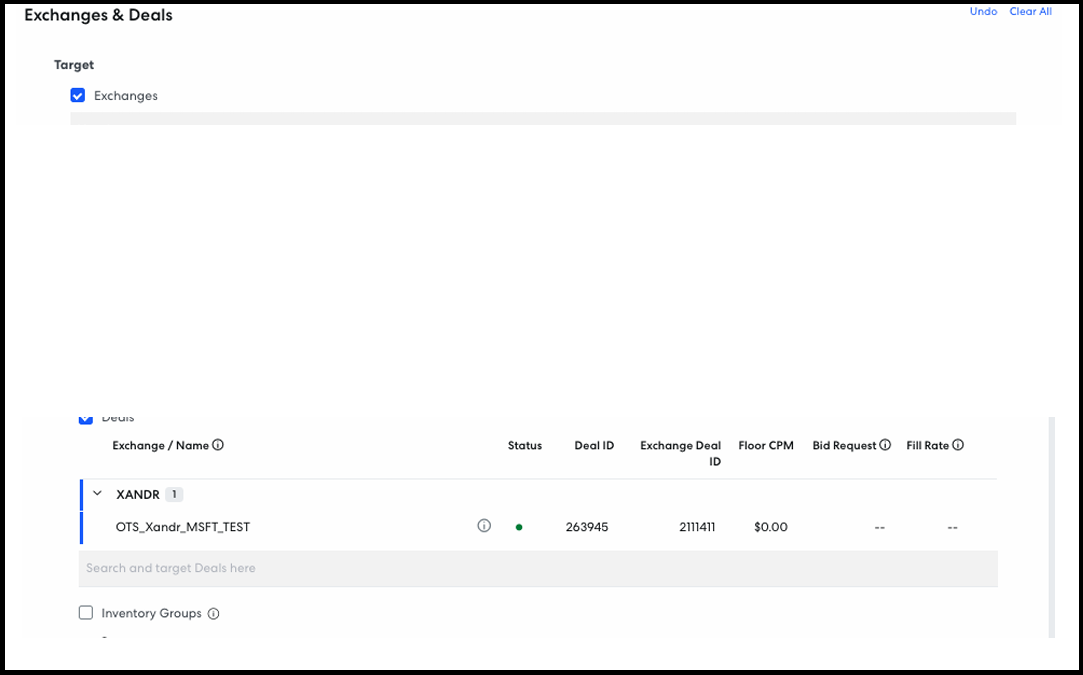
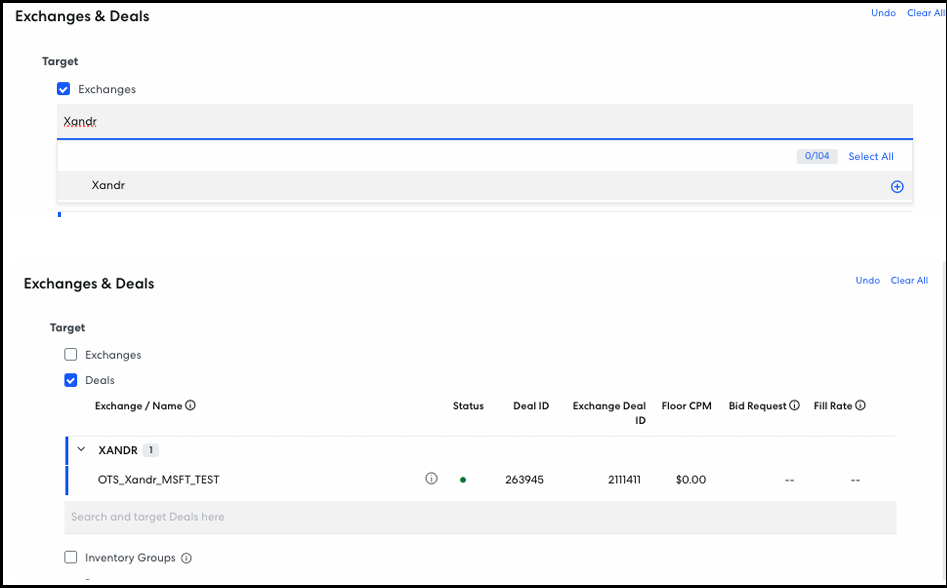
BG-Doc-updates-9211391-PR

diff --git a/xandr-docs/bidders/Yahoo-buying-guide.md b/xandr-docs/bidders/Yahoo-buying-guide.md
@@ -113,7 +113,7 @@ A line in your campaign can target or block one or more exchanges or available p
     > [!IMPORTANT]
     > Before targeting a deal to a line, register the deal. See the [Create a Deal](Yahoo-buying-guide.md#create-a-deal) section below to learn how to create new deals or search for existing deals in the Registered Deals Dashboard.
 
-1. Add the exchange or deal to the targeting criteria by clicking the **plus sign** next to the exchange or deal name.
+1. Add the exchange or deal to the targeting criteria by clicking the **plus sign** next to the exchange or deal name. The DSP then displays the selected exchange or deal in the field below the buttons.
 
    :::image type="content" source="media/exchanges-deals-targeting-criteria.png" alt-text="Screenshot that shows how to add the exchange or deal to the targeting criteria.":::.
 
